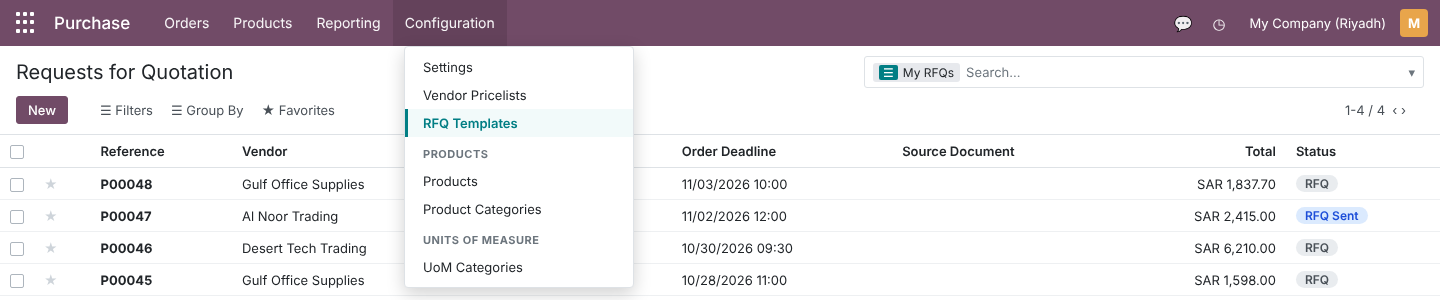
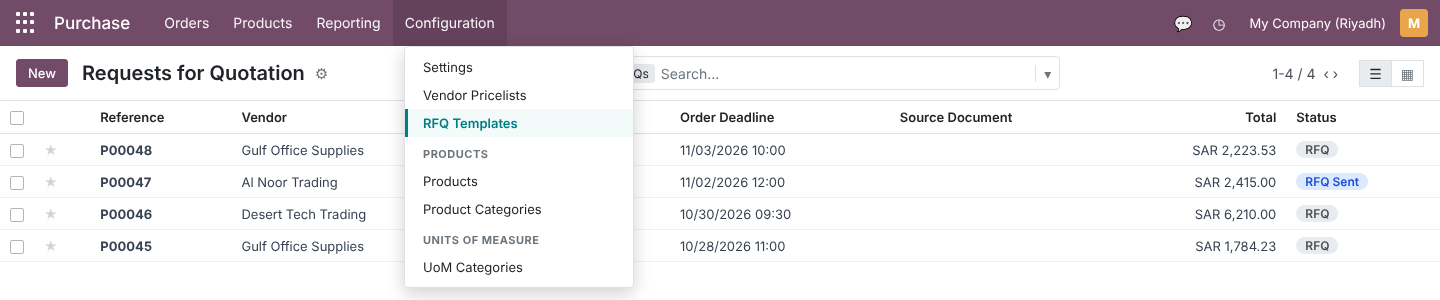
Add files via upload

diff --git a/purchase_rfq_templates/static/description/index.html b/purchase_rfq_templates/static/description/index.html
@@ -1,4 +1,4 @@
-<!-- Odoo Apps description page for purchase_rfq_templates (Odoo 16.0). Inline styles only: apps.odoo.com strips <style> and <script> blocks. -->
+<!-- Odoo Apps description page for purchase_rfq_templates (Odoo 18.0). Inline styles only: apps.odoo.com strips <style> and <script> blocks. -->
 <section style="max-width:1120px;margin:0 auto;padding:0 16px;font-family:-apple-system,BlinkMacSystemFont,'Segoe UI',Roboto,'Helvetica Neue',Arial,sans-serif;color:#2b2b33;">
 
 <!-- ============================== HERO ============================== -->
@@ -7,9 +7,9 @@
   <h1 style="font-size:40px;line-height:1.15;font-weight:700;margin:0 0 14px;color:#ffffff;">RFQ / Purchase Templates</h1>
   <p style="font-size:19px;line-height:1.55;max-width:760px;margin:0 0 24px;color:#ffffff;opacity:.95;">Save the products, quantities, units of measure, sections and notes you buy again and again, and load them into any RFQ in one click. Prices, taxes and analytic accounts are computed by Odoo&rsquo;s own purchase engine, exactly as if the buyer had typed each line.</p>
   <div>
-    <span style="display:inline-block;border:1px solid rgba(255,255,255,.7);border-radius:20px;padding:6px 14px;margin:0 8px 8px 0;font-size:14px;">Odoo 16.0</span>
+    <span style="display:inline-block;border:1px solid rgba(255,255,255,.7);border-radius:20px;padding:6px 14px;margin:0 8px 8px 0;font-size:14px;">Odoo 18.0</span>
     <span style="display:inline-block;border:1px solid rgba(255,255,255,.7);border-radius:20px;padding:6px 14px;margin:0 8px 8px 0;font-size:14px;">Community &amp; Enterprise</span>
-    <span style="display:inline-block;border:1px solid rgba(255,255,255,.7);border-radius:20px;padding:6px 14px;margin:0 8px 8px 0;font-size:14px;">25 automated tests</span>
+    <span style="display:inline-block;border:1px solid rgba(255,255,255,.7);border-radius:20px;padding:6px 14px;margin:0 8px 8px 0;font-size:14px;">29 automated tests</span>
     <span style="display:inline-block;border:1px solid rgba(255,255,255,.7);border-radius:20px;padding:6px 14px;margin:0 8px 8px 0;font-size:14px;">English &amp; Arabic</span>
     <span style="display:inline-block;border:1px solid rgba(255,255,255,.7);border-radius:20px;padding:6px 14px;margin:0 8px 8px 0;font-size:14px;">Technical name: purchase_rfq_templates</span>
     <span style="display:inline-block;border:1px solid rgba(255,255,255,.7);border-radius:20px;padding:6px 14px;margin:0 8px 8px 0;font-size:14px;">LGPL-3</span>
@@ -19,7 +19,7 @@
 <!-- ============================== KEY NUMBERS ============================== -->
 <div style="display:flex;flex-wrap:wrap;margin:28px -8px 8px;">
   <div style="flex:1 1 220px;margin:8px;background:#f6f4f6;border-radius:14px;padding:20px 22px;"><div style="font-size:30px;font-weight:700;color:#714B67;">1 field</div><div style="font-size:15px;color:#555;">Pick an <b>RFQ Template</b> on the RFQ and its lines appear instantly</div></div>
-  <div style="flex:1 1 220px;margin:8px;background:#eef6f6;border-radius:14px;padding:20px 22px;"><div style="font-size:30px;font-weight:700;color:#017E84;">0 retyping</div><div style="font-size:15px;color:#555;">Vendor price tiers, UoM, fiscal positions and taxes are applied natively</div></div>
+  <div style="flex:1 1 220px;margin:8px;background:#eef6f6;border-radius:14px;padding:20px 22px;"><div style="font-size:30px;font-weight:700;color:#017E84;">0 retyping</div><div style="font-size:15px;color:#555;">Vendor price tiers, discounts, UoM, fiscal positions and taxes are applied natively</div></div>
   <div style="flex:1 1 220px;margin:8px;background:#f6f4f6;border-radius:14px;padding:20px 22px;"><div style="font-size:30px;font-weight:700;color:#714B67;">3 vendor rules</div><div style="font-size:15px;color:#555;">Default vendor, allowed vendors and vendor-specific lines</div></div>
   <div style="flex:1 1 220px;margin:8px;background:#eef6f6;border-radius:14px;padding:20px 22px;"><div style="font-size:30px;font-weight:700;color:#017E84;">0 lines lost</div><div style="font-size:15px;color:#555;">Reapplying never touches manual lines or header data you already set</div></div>
 </div>
@@ -29,7 +29,7 @@
 <p style="font-size:16px;color:#555;margin:0 0 18px;">Recurring purchases (office supplies, consumables, safety kits, pantry restocks) follow the same list every time. Standard Purchase has no reusable shopping list for RFQs.</p>
 <div style="display:flex;flex-wrap:wrap;margin:0 -10px;">
   <div style="flex:1 1 440px;margin:10px;border:1px solid #f1d6d6;background:#fff8f8;border-radius:14px;padding:24px 26px;">
-    <h3 style="font-size:19px;font-weight:700;color:#b33939;margin:0 0 12px;">In standard Odoo 16</h3>
+    <h3 style="font-size:19px;font-weight:700;color:#b33939;margin:0 0 12px;">In standard Odoo 18</h3>
     <ul style="font-size:15px;line-height:1.65;margin:0;padding-left:20px;color:#3a3a42;">
       <li>Buyers <b>retype the same lines</b> on every RFQ, or duplicate an old order and clean it up.</li>
       <li>Quantities, <b>units of measure</b> and line descriptions drift from one buyer to another.</li>
@@ -42,7 +42,7 @@
   <div style="flex:1 1 440px;margin:10px;border:1px solid #cfe7e7;background:#f4fbfb;border-radius:14px;padding:24px 26px;">
     <h3 style="font-size:19px;font-weight:700;color:#017E84;margin:0 0 12px;">With this module</h3>
     <ul style="font-size:15px;line-height:1.65;margin:0;padding-left:20px;color:#3a3a42;">
-      <li>Select an <b>RFQ Template</b> and all its lines load at once, priced from the vendor&rsquo;s price list.</li>
+      <li>Select an <b>RFQ Template</b> and all its lines load at once, priced (and discounted) from the vendor&rsquo;s price list.</li>
       <li>Templates fix the <b>quantity, UoM, sections and notes</b>; you can still edit the RFQ afterwards.</li>
       <li><b>Only for Vendor</b> lines load only for that vendor; <b>Allowed Vendors</b> restrict the whole template.</li>
       <li><b>Payment Terms</b> and <b>Terms and Conditions</b> are copied when the RFQ has none.</li>
@@ -83,16 +83,16 @@
 <div style="margin:44px 0 0;">
   <div style="font-size:13px;font-weight:700;color:#017E84;letter-spacing:1px;text-transform:uppercase;">Feature 2</div>
   <h3 style="font-size:23px;font-weight:700;margin:4px 0 8px;">Products, quantities, UoMs, sections, notes and analytics</h3>
-  <p style="font-size:15px;line-height:1.6;color:#555;margin:0 0 14px;">The <b>Lines</b> tab works like an RFQ: <b>Add a product</b>, <b>Add a section</b>, <b>Add a note</b>. Each product line has a <b>Quantity</b>, a <b>Unit of Measure</b> (any unit of the product&rsquo;s category, e.g. Pens bought by the Dozen), an optional <b>Description</b> override, an <b>Analytic</b> distribution and an optional <b>Only for Vendor</b>. The <b>Vendors</b> and <b>RFQ Defaults</b> groups hold the default vendor, allowed vendors and payment terms; <b>Terms and Conditions</b> and <b>Internal Notes</b> have their own tabs.</p>
+  <p style="font-size:15px;line-height:1.6;color:#555;margin:0 0 14px;">The <b>Lines</b> tab works like an RFQ: <b>Add a product</b>, <b>Add a section</b>, <b>Add a note</b>. Each product line has a <b>Quantity</b>, a <b>Unit of Measure</b> (any unit of the product&rsquo;s category, e.g. Pens bought by the Dozen), an optional <b>Description</b> override, an <b>Analytic Distribution</b> and an optional <b>Only for Vendor</b>. The <b>Vendors</b> and <b>RFQ Defaults</b> groups hold the default vendor, allowed vendors and payment terms; <b>Terms and Conditions</b> and <b>Internal Notes</b> have their own tabs.</p>
   <img src="prt_03_template_form.png" alt="RFQ template form with vendors, defaults and template lines" style="width:100%;border:1px solid #e1e1e6;border-radius:10px;box-shadow:0 6px 24px rgba(30,30,60,.10);"/>
 </div>
 
 <div style="margin:44px 0 0;">
   <div style="font-size:13px;font-weight:700;color:#017E84;letter-spacing:1px;text-transform:uppercase;">Feature 3</div>
   <h3 style="font-size:23px;font-weight:700;margin:4px 0 8px;">Lines load instantly, priced by the vendor&rsquo;s price list</h3>
-  <p style="font-size:15px;line-height:1.6;color:#555;margin:0 0 14px;">Choose the <b>RFQ Template</b> on the RFQ and the lines appear before you save. Each line replays the standard product selection, then sets the template&rsquo;s unit of measure and quantity, so Odoo picks the right <b>vendor price tier</b>, converts units and currency, maps taxes through the <b>fiscal position</b> and applies <b>analytic distribution models</b>. The vendor&rsquo;s product code and name are used as the description unless the template overrides it.</p>
+  <p style="font-size:15px;line-height:1.6;color:#555;margin:0 0 14px;">Choose the <b>RFQ Template</b> on the RFQ and the lines appear before you save. Each line replays the standard product selection, then sets the template&rsquo;s unit of measure and quantity, so Odoo picks the right <b>vendor price tier</b> and its <b>discount</b>, converts units and currency, maps taxes through the <b>fiscal position</b> and applies <b>analytic distribution models</b>. The vendor&rsquo;s product code and name are used as the description unless the template overrides it.</p>
   <img src="prt_04_rfq_loaded.png" alt="New RFQ with the template selected and lines priced from the vendor price list" style="width:100%;border:1px solid #e1e1e6;border-radius:10px;box-shadow:0 6px 24px rgba(30,30,60,.10);"/>
-  <div style="background:#f4fbfb;border-left:4px solid #017E84;border-radius:8px;padding:16px 20px;font-size:15px;line-height:1.6;margin-top:18px;"><b>Worked example:</b> Gulf Office Supplies sells A4 paper at SAR&nbsp;10.00 (min. 1) and SAR&nbsp;8.00 (min. 50). The template asks for 60 units, so the line is priced at <b>SAR&nbsp;8.00</b>. Pens cost SAR&nbsp;2.00 per unit and the template buys them by the Dozen, so the line shows <b>2.00 Dozens &times; SAR&nbsp;24.00</b>.</div>
+  <div style="background:#f4fbfb;border-left:4px solid #017E84;border-radius:8px;padding:16px 20px;font-size:15px;line-height:1.6;margin-top:18px;"><b>Worked example:</b> Gulf Office Supplies sells A4 paper at SAR&nbsp;10.00 (min. 1) and SAR&nbsp;8.00 (min. 50). The template asks for 60 units, so the line is priced at <b>SAR&nbsp;8.00</b>. Pens cost SAR&nbsp;2.00 per unit and the template buys them by the Dozen, so the line shows <b>2.00 Dozens &times; SAR&nbsp;24.00</b>. The toner price list line carries a 5% vendor discount, which lands in <b>Disc.%</b>: 3 &times; SAR&nbsp;310.00 &minus; 5% = <b>SAR&nbsp;883.50</b>.</div>
 </div>
 
 <div style="margin:44px 0 0;">
@@ -148,12 +148,14 @@
 <div style="display:flex;flex-wrap:wrap;margin:0 -8px;font-size:15px;line-height:1.55;">
   <div style="flex:1 1 320px;margin:8px;padding:16px 18px;border:1px solid #e8e8ee;border-radius:12px;"><b>Switching templates on a new RFQ</b><br/><span style="color:#555;">Only the previous template&rsquo;s lines are replaced; lines you typed stay.</span></div>
   <div style="flex:1 1 320px;margin:8px;padding:16px 18px;border:1px solid #e8e8ee;border-radius:12px;"><b>Multi-company</b><br/><span style="color:#555;">A company template can&rsquo;t be used on another company&rsquo;s RFQ. Shared templates skip products restricted to another company and use only the order company&rsquo;s taxes.</span></div>
+  <div style="flex:1 1 320px;margin:8px;padding:16px 18px;border:1px solid #e8e8ee;border-radius:12px;"><b>Branches</b><br/><span style="color:#555;">Odoo branches can use the templates (and products) of their parent company; a branch template stays inside the branch.</span></div>
   <div style="flex:1 1 320px;margin:8px;padding:16px 18px;border:1px solid #e8e8ee;border-radius:12px;"><b>Archived templates and products</b><br/><span style="color:#555;">Archived templates can&rsquo;t be applied. Archived, non-purchasable or blocked products are skipped and reported.</span></div>
   <div style="flex:1 1 320px;margin:8px;padding:16px 18px;border:1px solid #e8e8ee;border-radius:12px;"><b>Confirmed orders</b><br/><span style="color:#555;">Templates apply only to RFQs in RFQ or RFQ Sent state; the field is read-only on confirmed, locked and cancelled orders.</span></div>
   <div style="flex:1 1 320px;margin:8px;padding:16px 18px;border:1px solid #e8e8ee;border-radius:12px;"><b>Vendor contacts</b><br/><span style="color:#555;">Allowed vendors and vendor-specific lines match the vendor&rsquo;s company, so an RFQ addressed to one of its contacts works too.</span></div>
   <div style="flex:1 1 320px;margin:8px;padding:16px 18px;border:1px solid #e8e8ee;border-radius:12px;"><b>Units of measure</b><br/><span style="color:#555;">The template unit must be in the product&rsquo;s UoM category; prices are converted to it. Negative quantities are rejected.</span></div>
   <div style="flex:1 1 320px;margin:8px;padding:16px 18px;border:1px solid #e8e8ee;border-radius:12px;"><b>Imports and integrations</b><br/><span style="color:#555;">An RFQ created by code or import with a template and no lines is filled automatically (context <code>skip_purchase_template_apply</code> turns this off).</span></div>
   <div style="flex:1 1 320px;margin:8px;padding:16px 18px;border:1px solid #e8e8ee;border-radius:12px;"><b>Buyers without analytic access</b><br/><span style="color:#555;">The template&rsquo;s analytic distribution is still saved on the RFQ lines, even when the Analytic column is hidden for that user.</span></div>
+  <div style="flex:1 1 320px;margin:8px;padding:16px 18px;border:1px solid #e8e8ee;border-radius:12px;"><b>Duplicating</b><br/><span style="color:#555;">Duplicate one or several templates at once; each copy is named &ldquo;(copy)&rdquo; and keeps its lines. A duplicated RFQ has no template, so its lines count as manual.</span></div>
   <div style="flex:1 1 320px;margin:8px;padding:16px 18px;border:1px solid #e8e8ee;border-radius:12px;"><b>Explicit lines win</b><br/><span style="color:#555;">An RFQ created with its own lines is never overwritten by its template.</span></div>
 </div>
 
@@ -165,7 +167,7 @@
   <tbody>
     <tr style="border-bottom:1px solid #eee;"><td style="padding:10px 14px;">Purchase / User</td><td style="padding:10px 14px;">Read templates, select them on RFQs and use <b>Reapply Template</b></td></tr>
     <tr style="border-bottom:1px solid #eee;background:#fafafa;"><td style="padding:10px 14px;">Purchase / Administrator</td><td style="padding:10px 14px;">Create, edit, archive and delete templates; access the <b>Configuration</b> menu</td></tr>
-    <tr style="border-bottom:1px solid #eee;"><td style="padding:10px 14px;">Multi-company (record rules)</td><td style="padding:10px 14px;">Users see shared templates and those of their allowed companies only</td></tr>
+    <tr style="border-bottom:1px solid #eee;"><td style="padding:10px 14px;">Multi-company (record rules)</td><td style="padding:10px 14px;">Users see shared templates, those of their allowed companies and those of their parent companies (branches)</td></tr>
   </tbody>
 </table>
 
@@ -174,12 +176,12 @@
 <p style="font-size:16px;color:#555;margin:0 0 18px;">Small footprint, standard APIs, no core overrides of pricing logic.</p>
 <table style="width:100%;border-collapse:collapse;font-size:15px;">
   <tbody>
-    <tr style="border-bottom:1px solid #eee;"><td style="padding:10px 14px;width:34%;color:#777;vertical-align:top;">Odoo version</td><td style="padding:10px 14px;overflow-wrap:anywhere;">16.0, Community and Enterprise</td></tr>
+    <tr style="border-bottom:1px solid #eee;"><td style="padding:10px 14px;width:34%;color:#777;vertical-align:top;">Odoo version</td><td style="padding:10px 14px;overflow-wrap:anywhere;">18.0, Community and Enterprise</td></tr>
     <tr style="border-bottom:1px solid #eee;background:#fafafa;"><td style="padding:10px 14px;width:34%;color:#777;vertical-align:top;">Depends on</td><td style="padding:10px 14px;overflow-wrap:anywhere;"><code>purchase</code></td></tr>
     <tr style="border-bottom:1px solid #eee;"><td style="padding:10px 14px;width:34%;color:#777;vertical-align:top;">Python dependency</td><td style="padding:10px 14px;overflow-wrap:anywhere;">None</td></tr>
     <tr style="border-bottom:1px solid #eee;background:#fafafa;"><td style="padding:10px 14px;width:34%;color:#777;vertical-align:top;">Menus</td><td style="padding:10px 14px;overflow-wrap:anywhere;">Purchase &rsaquo; Configuration &rsaquo; RFQ Templates</td></tr>
     <tr style="border-bottom:1px solid #eee;"><td style="padding:10px 14px;width:34%;color:#777;vertical-align:top;">Models</td><td style="padding:10px 14px;overflow-wrap:anywhere;"><code>purchase.order.template</code>, <code>purchase.order.template.line</code>; extends <code>purchase.order</code> (RFQ Template) and <code>purchase.order.line</code> (Loaded from Template)</td></tr>
-    <tr style="border-bottom:1px solid #eee;background:#fafafa;"><td style="padding:10px 14px;width:34%;color:#777;vertical-align:top;">Automated tests</td><td style="padding:10px 14px;overflow-wrap:anywhere;">25 <code>TransactionCase</code> tests: form loading, price tiers and UoM, fiscal positions and taxes, analytics, vendor rules, reapply and idempotency, archive states, multi-company and access rules</td></tr>
+    <tr style="border-bottom:1px solid #eee;background:#fafafa;"><td style="padding:10px 14px;width:34%;color:#777;vertical-align:top;">Automated tests</td><td style="padding:10px 14px;overflow-wrap:anywhere;">29 <code>TransactionCase</code> tests: form loading, price tiers, vendor discounts and UoM, fiscal positions and taxes, analytics, vendor rules, reapply and idempotency, duplication, archive states, multi-company, branches and access rules</td></tr>
     <tr style="border-bottom:1px solid #eee;"><td style="padding:10px 14px;width:34%;color:#777;vertical-align:top;">Translations</td><td style="padding:10px 14px;overflow-wrap:anywhere;">Arabic (<code>ar</code>), plus a <code>.pot</code> template for other languages</td></tr>
     <tr style="border-bottom:1px solid #eee;background:#fafafa;"><td style="padding:10px 14px;width:34%;color:#777;vertical-align:top;">License</td><td style="padding:10px 14px;overflow-wrap:anywhere;">LGPL-3</td></tr>
   </tbody>

diff --git a/purchase_rfq_templates/tests/test_purchase_rfq_templates.py b/purchase_rfq_templates/tests/test_purchase_rfq_templates.py
@@ -58,8 +58,10 @@ class TestPurchaseRfqTemplates(TransactionCase):
             'name': 'Toner', 'type': 'consu', 'purchase_ok': True, 'standard_price': 40.0,
         })
 
-        cls.analytic_plan = cls.env['account.analytic.plan'].create({
-            'name': 'RFQ Templates Plan', 'company_id': False})
+        plan_vals = {'name': 'RFQ Templates Plan'}
+        if 'company_id' in cls.env['account.analytic.plan']._fields:
+            plan_vals['company_id'] = False  # removed from analytic plans during the 17.0 series
+        cls.analytic_plan = cls.env['account.analytic.plan'].create(plan_vals)
         cls.analytic_admin = cls.env['account.analytic.account'].create({
             'name': 'Administration', 'plan_id': cls.analytic_plan.id, 'company_id': False})
         cls.analytic_it = cls.env['account.analytic.account'].create({
@@ -221,6 +223,15 @@ class TestPurchaseRfqTemplates(TransactionCase):
         self.assertEqual(pen.product_qty, 2)
         self.assertAlmostEqual(pen.price_unit, 24.0, msg="2.0/unit converted to dozen")
         self.assertAlmostEqual(po.amount_untaxed, 60 * 8.0 + 2 * 24.0)
+
+    def test_vendor_discount(self):
+        """v17: the vendor price list discount is computed natively and kept."""
+        self.product_paper.seller_ids.filtered(lambda s: s.min_qty == 50).discount = 10.0
+        po = self._new_po(purchase_template_id=self.template.id)
+        paper = self._line(po, self.product_paper)
+        self.assertEqual(paper.price_unit, 8.0)
+        self.assertEqual(paper.discount, 10.0)
+        self.assertAlmostEqual(paper.price_subtotal, 60 * 8.0 * 0.9)
 
     def test_vendor_specific_price(self):
         po = self._new_po(partner=self.vendor_b, purchase_template_id=self.template.id)
@@ -400,3 +411,43 @@ class TestPurchaseRfqTemplates(TransactionCase):
         self.assertNotIn(template_b, visible)
         with self.assertRaises(AccessError):
             Template.create({'name': 'Users cannot create templates'})
+
+    def test_branch_uses_parent_company_template(self):
+        """v17 branches: a parent company template (and its products) is usable in a branch."""
+        branch = self.env['res.company'].create({'name': 'RFQ Templates Branch', 'parent_id': self.company.id})
+        self.env.user.company_ids |= branch
+        self.product_toner.company_id = self.company
+        parent_template = self.env['purchase.order.template'].create({
+            'name': 'Parent company template', 'company_id': self.company.id,
+            'line_ids': [Command.create({'product_id': self.product_toner.id, 'product_qty': 3})],
+        })
+        po_branch = self.env['purchase.order'].with_company(branch).create({
+            'partner_id': self.vendor_a.id, 'company_id': branch.id,
+            'purchase_template_id': parent_template.id})
+        self.assertEqual(po_branch.order_line.product_id, self.product_toner)
+        self.assertEqual(po_branch.order_line.product_qty, 3)
+
+        # ...but a branch template cannot be used by the parent company
+        branch_template = self.env['purchase.order.template'].create({
+            'name': 'Branch template', 'company_id': branch.id})
+        po = self._new_po()
+        with self.assertRaises(UserError):
+            po._purchase_template_apply(branch_template)
+        with self.assertRaises(UserError):
+            po.write({'purchase_template_id': branch_template.id})
+
+    def test_duplicated_order_lines_are_manual(self):
+        """A duplicated RFQ has no template, so its lines must not be flagged as template lines."""
+        po = self._new_po(purchase_template_id=self.template.id)
+        self.assertTrue(all(po.order_line.mapped('from_purchase_template')))
+        copy = po.copy()
+        self.assertFalse(copy.purchase_template_id)
+        self.assertTrue(copy.order_line)
+        self.assertFalse(any(copy.order_line.mapped('from_purchase_template')))
+
+    def test_copy_several_templates(self):
+        """v18: copy() runs on several records at once; each copy keeps its own name."""
+        other = self.env['purchase.order.template'].create({'name': 'Pantry Restock'})
+        copies = (self.template | other).copy()
+        self.assertEqual(copies.mapped('name'), ['Office Supplies (copy)', 'Pantry Restock (copy)'])
+        self.assertEqual(len(copies[0].line_ids), len(self.template.line_ids))

diff --git a/purchase_rfq_templates/models/purchase_order.py b/purchase_rfq_templates/models/purchase_order.py
@@ -11,9 +11,7 @@ class PurchaseOrder(models.Model):
     purchase_template_id = fields.Many2one(
         'purchase.order.template', string='RFQ Template',
         check_company=True, copy=False, tracking=True,
-        states={'purchase': [('readonly', True)], 'done': [('readonly', True)],
-                'cancel': [('readonly', True)]},
-        domain="['|', ('company_id', '=', False), ('company_id', '=', company_id)]",
+        domain="['|', ('company_id', '=', False), ('company_id', 'parent_of', company_id)]",
         help="Loading a template adds its lines to the RFQ. Lines previously loaded "
              "from a template are replaced; lines you added manually are kept.")
 
@@ -84,7 +82,7 @@ class PurchaseOrder(models.Model):
             raise UserError(_("Templates can only be applied on draft or sent RFQs."))
         if not template.active:
             raise UserError(_("The RFQ template '%s' is archived.", template.name))
-        if template.company_id and template.company_id != self.company_id:
+        if template.company_id and template.company_id not in self.company_id.parent_ids:
             raise UserError(_(
                 "The RFQ template '%(template)s' belongs to %(company)s and cannot be used "
                 "on an order of %(order_company)s.",
@@ -126,6 +124,8 @@ class PurchaseOrder(models.Model):
         applicable = template.line_ids.filtered(lambda l: l._is_applicable_to(self))
         skipped = template.line_ids - applicable
 
+        # Must be read BEFORE the line simulation below: Line.new(order_id=<NewId>)
+        # temporarily adds the simulated lines to the cached order_line.
         old_lines = self.order_line.filtered('from_purchase_template')
         kept_lines = self.order_line - old_lines
         base_sequence = max(kept_lines.mapped('sequence') or [0])
@@ -136,8 +136,8 @@ class PurchaseOrder(models.Model):
             vals_list.append(vals)
 
         if isinstance(self.id, models.NewId):
-            # Form/onchange: work on the cached recordset. Delete commands on
-            # new lines cannot be used here (the ORM would wrap their NewId again).
+            # Form/onchange: replace the cached recordset (this also drops the
+            # simulated pricing lines added to the cache by Line.new()).
             Line = self.env['purchase.order.line']
             new_lines = Line.browse()
             for vals in vals_list:
@@ -176,6 +176,7 @@ class PurchaseOrder(models.Model):
             'product_qty': tline.product_qty,
             'product_uom': line.product_uom.id,
             'price_unit': line.price_unit,
+            'discount': line.discount,  # v17: vendor price list discount
             'taxes_id': [Command.set(line.taxes_id.ids)],
             'date_planned': line.date_planned,
             'name': tline.name or line.name,

diff --git a/purchase_rfq_templates/models/purchase_order_template.py b/purchase_rfq_templates/models/purchase_order_template.py
@@ -8,6 +8,8 @@ class PurchaseOrderTemplate(models.Model):
     _description = 'RFQ / Purchase Template'
     _order = 'sequence, name, id'
     _check_company_auto = True
+    # v17 branches: a template of a parent company can be used by its branches
+    _check_company_domain = models.check_company_domain_parent_of
 
     name = fields.Char(string='Template Name', required=True, translate=True)
     active = fields.Boolean(default=True)
@@ -24,7 +26,7 @@ class PurchaseOrderTemplate(models.Model):
     # Vendor mapping
     partner_id = fields.Many2one(
         'res.partner', string='Default Vendor', check_company=True,
-        domain="['|', ('company_id', '=', False), ('company_id', '=', company_id)]",
+        domain="['|', ('company_id', '=', False), ('company_id', 'parent_of', company_id)]",
         help="Vendor set on the RFQ when the template is loaded on an RFQ "
              "that has no vendor yet.")
     partner_ids = fields.Many2many(
@@ -36,7 +38,7 @@ class PurchaseOrderTemplate(models.Model):
     # Header defaults (only filled when empty on the RFQ)
     payment_term_id = fields.Many2one(
         'account.payment.term', string='Payment Terms', check_company=True,
-        domain="['|', ('company_id', '=', False), ('company_id', '=', company_id)]",
+        domain="['|', ('company_id', '=', False), ('company_id', 'parent_of', company_id)]",
         help="Used only when the RFQ has no payment terms yet.")
     note = fields.Html(
         string='Terms and Conditions', translate=True,
@@ -65,11 +67,13 @@ class PurchaseOrderTemplate(models.Model):
         allowed = self.partner_ids | self.partner_ids.commercial_partner_id
         return partner in allowed or commercial in allowed
 
-    def copy(self, default=None):
-        default = dict(default or {})
-        if 'name' not in default:
-            default['name'] = _("%s (copy)", self.name)
-        return super().copy(default)
+    def copy_data(self, default=None):
+        # v18: copy() works on several records at once, so name each copy here
+        vals_list = super().copy_data(default=default)
+        if 'name' not in (default or {}):
+            for template, vals in zip(self, vals_list):
+                vals['name'] = _("%s (copy)", template.name)
+        return vals_list
 
     def action_create_rfq(self):
         """Open a new RFQ pre-loaded with this template."""

diff --git a/purchase_rfq_templates/models/purchase_order_template_line.py b/purchase_rfq_templates/models/purchase_order_template_line.py
@@ -21,7 +21,7 @@ class PurchaseOrderTemplateLine(models.Model):
 
     product_id = fields.Many2one(
         'product.product', string='Product', check_company=True,
-        domain="[('purchase_ok', '=', True), '|', ('company_id', '=', False), ('company_id', '=', company_id)]")
+        domain="[('purchase_ok', '=', True), '|', ('company_id', '=', False), ('company_id', 'parent_of', company_id)]")
     name = fields.Text(
         string='Description', translate=True,
         help="Optional. Leave empty to use the vendor's product description, "
@@ -98,6 +98,7 @@ class PurchaseOrderTemplateLine(models.Model):
             return False
         if product.purchase_line_warn == 'block':  # "Blocking Message" on purchase
             return False
-        if product.company_id and product.company_id != order.company_id:
+        # v17 branches: products of the order company or of one of its parents
+        if product.company_id and product.company_id not in order.company_id.parent_ids:
             return False
         return True

diff --git a/purchase_rfq_templates/models/purchase_order_line.py b/purchase_rfq_templates/models/purchase_order_line.py
@@ -6,6 +6,6 @@ class PurchaseOrderLine(models.Model):
     _inherit = 'purchase.order.line'
 
     from_purchase_template = fields.Boolean(
-        string='Loaded from Template', default=False,
+        string='Loaded from Template', default=False, copy=False,
         help="Technical: lines loaded from an RFQ template are replaced when a "
              "template is applied again; manual lines are kept.")

diff --git a/purchase_rfq_templates/__manifest__.py b/purchase_rfq_templates/__manifest__.py
@@ -1,7 +1,7 @@
 # -*- coding: utf-8 -*-
 {
     'name': 'RFQ / Purchase Templates',
-    'version': '16.0.1.0.0',
+    'version': '18.0.1.0.0',
     'summary': 'Reusable RFQ templates: load products, quantities, UoMs, notes '
                'and analytics into purchase orders with native vendor pricing and taxes',
     'description': """

diff --git a/purchase_rfq_templates/README.rst b/purchase_rfq_templates/README.rst
@@ -2,7 +2,7 @@
 RFQ / Purchase Templates
 =======================
 
-Odoo 16 (Community & Enterprise) — technical name ``purchase_rfq_templates``.
+Odoo 18 (Community & Enterprise) — technical name ``purchase_rfq_templates``.
 
 Features
 ========
@@ -38,3 +38,12 @@ Tests
         --test-tags /purchase_rfq_templates --stop-after-init
 
 Author: Ibrahim Yahia — https://www.linkedin.com/in/ibrahim-yahia — LGPL-3
+
+Odoo 17 / 18 notes
+==================
+* Views use the 17.0 ``invisible`` / ``readonly`` / ``required`` / ``column_invisible``
+  expressions (``attrs`` and ``states`` are no longer accepted).
+* Branches: templates and products of a parent company can be used by its branches.
+* Vendor price list discounts are copied to the RFQ line (``Disc.%``).
+* 18.0: list views use ``<list>`` (``tree`` is no longer a view type); template
+  duplication is batch-safe (``copy_data``).
